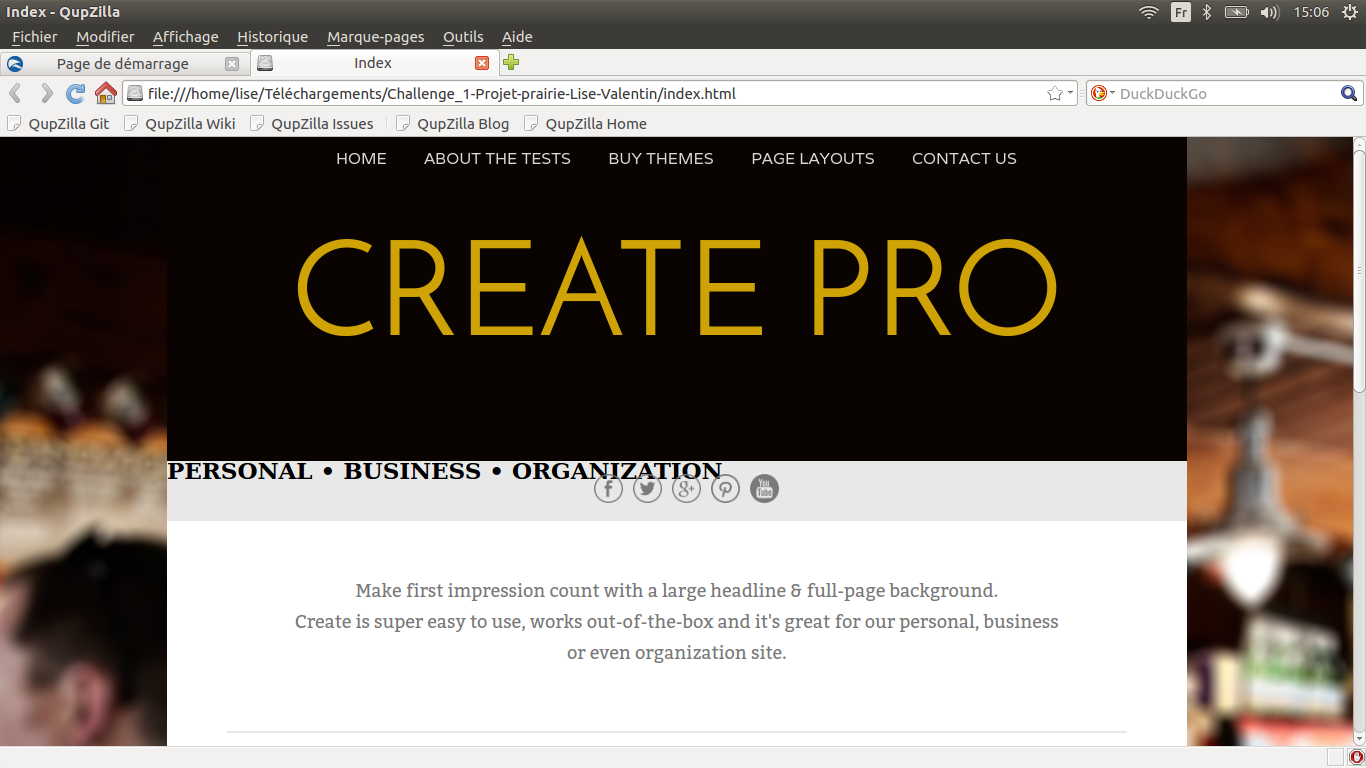
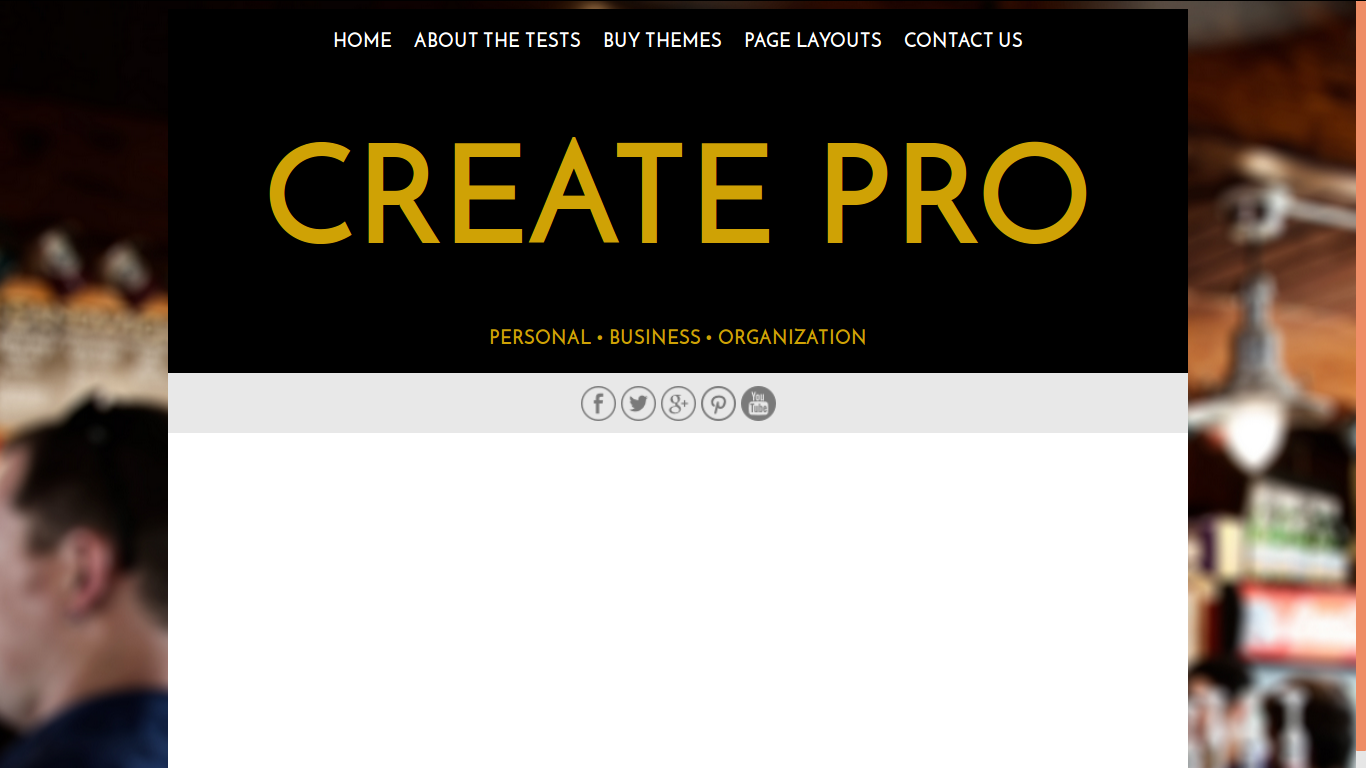
pagetype

diff --git a/css/style.css b/css/style.css
@@ -237,6 +237,79 @@ color: #fff;
 }
 
 
+/* ==================== */
+/* ===== PAGETYPE ===== */
+/* ==================== */
+
+
+.page p {
+    font-size: 1.3em;
+    max-width: 80%;
+    margin: 0 auto;
+    color: yellowgreen;
+}
+
+.pageprojet {
+    width: 80%;
+    margin-top: 50px;
+    margin-bottom: 50px;
+}
+
+.contenu {
+    height: 100%;
+}
+
+.apercu {
+    background-image: url(../img/img1.png);
+    background-size: cover;
+    height: 300px;
+    background-size: 100% 100%;
+    background-repeat: no-repeat;
+}
+
+.apercu2 {
+    background-color: crimson;
+    display: flex;
+    flex-direction: column;
+    align-items: center;
+    justify-content: center;
+    color: white;
+    font-family: 'Open Sans' sans-serif;
+    font-size: 1.2em;
+    padding-top: 48px;
+    padding-bottom: 49px;
+}
+
+.apercu2 p {
+    width: 75%;
+}
+
+pre {
+    display: block;
+    background-color: white;
+    border-radius: 0%;
+    border: 0px solid white;
+    height: 600px;
+    margin-bottom: 50px;
+}
+
+pre code {
+    display: block;
+    background-color: white;
+    border-radius: 0%;
+    border: 0px solid white;
+    color: crimson;
+    width: 80%;
+    margin-left: 10%;
+}
+
+.code{
+    color: dimgrey;
+    font-family: 'Open Sans' sans-serif;
+    width: 75%;
+    padding-top: 25px;
+    padding-bottom: 25px;
+}
 
 /* ==================== */
 /* ====== FOOTER ====== */

diff --git a/projet1.php b/projet1.php
@@ -1,0 +1,58 @@
+<!DOCTYPE html>
+<html lang="en">
+
+<head>
+    <meta charset="UTF-8" author="Lise Poirier">
+    <title>Welcome</title>
+    <!-- Scripts -->
+    <script src="js/jquery.js"></script>
+    <script src="js/bootstrap.js"></script>
+    <script type="text/javascript" src="js/navtrans.js"></script>
+    <!-- CSS -->
+    <link rel="stylesheet" type="text/css" href="css/bootstrap.css" />
+    <link rel="stylesheet" type="text/css" href="css/style.css" />
+    <!-- Fonts -->
+    <link type="text/css" rel="stylesheet" href="css/font-awesome.css" />
+    <link href="https://fonts.googleapis.com/css?family=Open+Sans" rel="stylesheet"> </head>
+
+<body>
+    <div class="container-fluid">
+        <!-- NAVBAR -->
+        <?php include 'nav.php'; ?>
+            <!-- PAGE -->
+            <?php include 'pagetype.php'; ?>
+                <!-- PROJET -->
+                <div class="pageprojet center-block">
+                    <div class="col-md-6 contenu">
+                        <div class="apercu col-md-12"></div>
+                        <div class="apercu2 col-md-12"><p>
+                            Lorem ipsum dolor sit amet, consectetur adipisicing elit. Necessitatibus, sapiente impedit architecto aut quaerat ratione ullam dolorum porro cum. Tenetur dolores nesciunt cum illum ipsum culpa perspiciatis quidem, rem officiis?
+                            Lorem ipsum dolor sit amet, consectetur adipisicing elit. Vel sequi temporibus consectetur, in rerum esse iure, cupiditate voluptatum ipsum, minus, reiciendis voluptate ipsam aliquam nulla. Voluptate at, fugiat explicabo et!
+                        </p></div>
+                    </div>
+                    <div class="col-md-6">
+                        <pre>
+                            <code>
+                                <span class="code">{ Lorem ipsum dolor sit amet, consectetur adipisicing elit. Debitis magni fugiat fuga, recusandae ad tempora. In quasi atque repellendus enim nam earum eaque praesentium odio, rerum vitae id, quo ut. }</span>
+                                
+                                <span class="code">{ Lorem ipsum dolor sit amet, consectetur adipisicing elit. Debitis magni fugiat fuga, recusandae ad tempora. In quasi atque repellendus enim nam earum eaque praesentium odio, rerum vitae id, quo ut. }</span>
+                                
+                                <span class="code">{ Lorem ipsum dolor sit amet, consectetur adipisicing elit. Debitis magni fugiat fuga, recusandae ad tempora. In quasi atque repellendus enim nam earum eaque praesentium odio, rerum vitae id, quo ut. }</span>
+                                
+                                <span class="code">{ Lorem ipsum dolor sit amet, consectetur adipisicing elit. Debitis magni fugiat fuga, recusandae ad tempora. In quasi atque repellendus enim nam earum eaque praesentium odio, rerum vitae id, quo ut. }</span>
+                                
+                                <span class="code">{ Lorem ipsum dolor sit amet, consectetur adipisicing elit. Debitis magni fugiat fuga, recusandae ad tempora. In quasi atque repellendus enim nam earum eaque praesentium odio, rerum vitae id, quo ut. }</span>
+                                
+                                <span>{ Lorem ipsum dolor sit amet, consectetur adipisicing elit. Debitis magni fugiat fuga, recusandae ad tempora. In quasi atque repellendus enim nam earum eaque praesentium odio, rerum vitae id, quo ut. }</span class="code">
+                                
+                                <span class="code">{ Lorem ipsum dolor sit amet, consectetur adipisicing elit. Debitis magni fugiat fuga, recusandae ad tempora. In quasi atque repellendus enim nam earum eaque praesentium odio, rerum vitae id, quo ut. }</span>
+                            </code>
+                        </pre>
+                    </div>
+                </div>
+                <!-- FOOTER -->
+                <?php include 'footer.php'; ?>
+    </div>
+</body>
+
+</html>

diff --git a/nav.php b/nav.php
@@ -6,11 +6,11 @@
         <span class="icon-bar icon_nav"></span>
         <span class="icon-bar icon_nav"></span>                        
       </button>
-      <a id="startbootstrap_nav" class="navbar-brand" href="#">hello word</a>
+      <a id="startbootstrap_nav" class="navbar-brand" href="index.php">hello word</a>
     </div>
     <div class="collapse navbar-collapse" id="myNavbar">
       <ul class="nav navbar-nav navbar-right">
-        <li class="active"><a class="liens_nav" href="#">ACCUEIL</a></li>
+        <li class="active"><a class="liens_nav" href="index.php">ACCUEIL</a></li>
         <li class="active"><a class="liens_nav" href="#">WEB</a></li>
         <li class="active"><a class="liens_nav" href="#">BACK</a></li>
         <li class="active"><a class="liens_nav" href="#">CONTACT</a></li>

diff --git a/portfolio.php b/portfolio.php
@@ -3,7 +3,7 @@
           
            <div class="projet col-md-4 col-sm-6" id="projet1">
                        <div class="projet-present">
-                       <a href="#"><h3>Nom Projet</h3></a>
+                       <a href="projet1.php"><h3>Nom Projet</h3></a>
                         <p>Lorem ipsum dolor sit amet, consectetur adipisicing elit. Aut vitae suscipit nobis hic, facere ipsam ad ratione explicabo inventore blanditiis eius provident unde, repudiandae necessitatibus nam voluptatem, iusto delectus! Consectetur!.</p>
                         </div>
             </div>

diff --git a/pagetype.php b/pagetype.php
@@ -1,0 +1,6 @@
+<header id="startchange" class="container-fluid header page">
+    <h1>create pro</h1>
+    <p>Lorem ipsum dolor sit amet, consectetur adipisicing elit. Omnis optio tempora eum accusantium totam doloremque similique officia veritatis ipsa! Vitae illo tempore molestiae adipisci, quos quasi facere eaque blanditiis sequi.</p>
+    <div class="separator-header"></div>
+    <div class="separator-header2"></div>
+</header>
